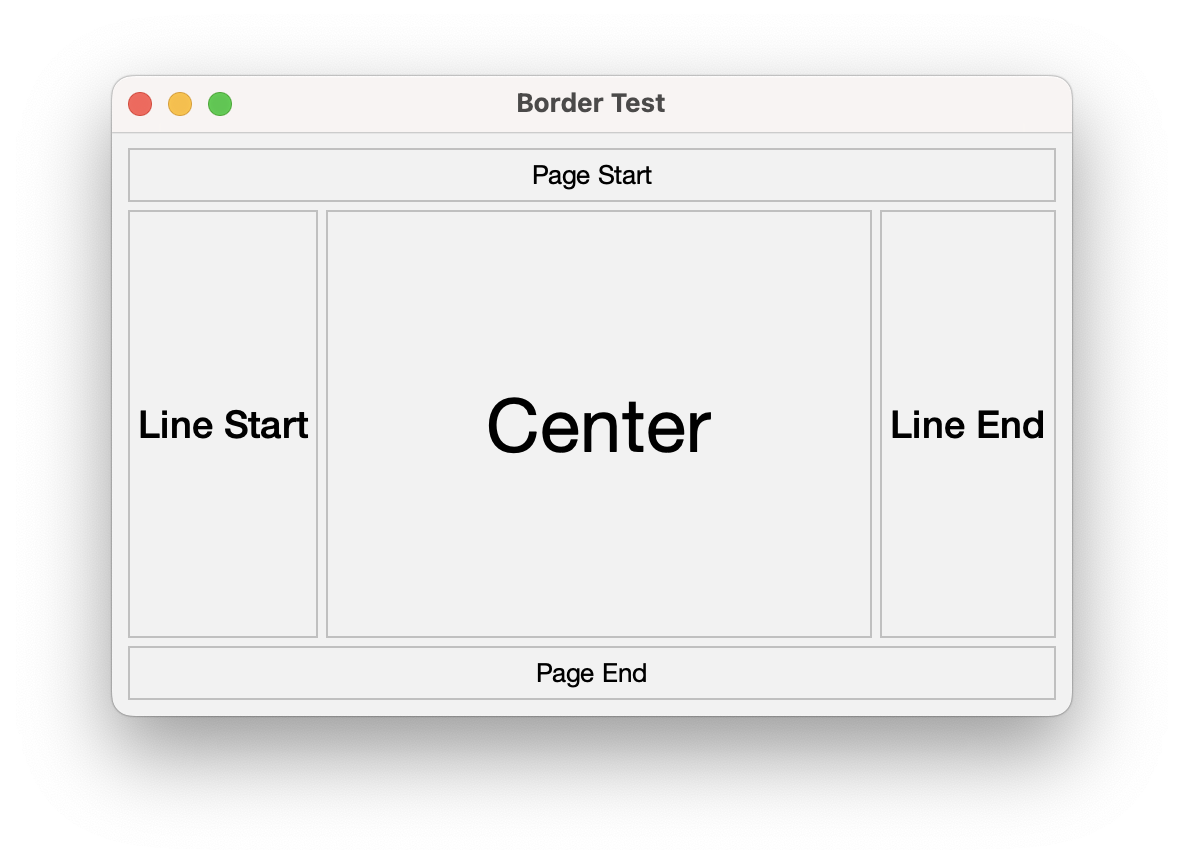
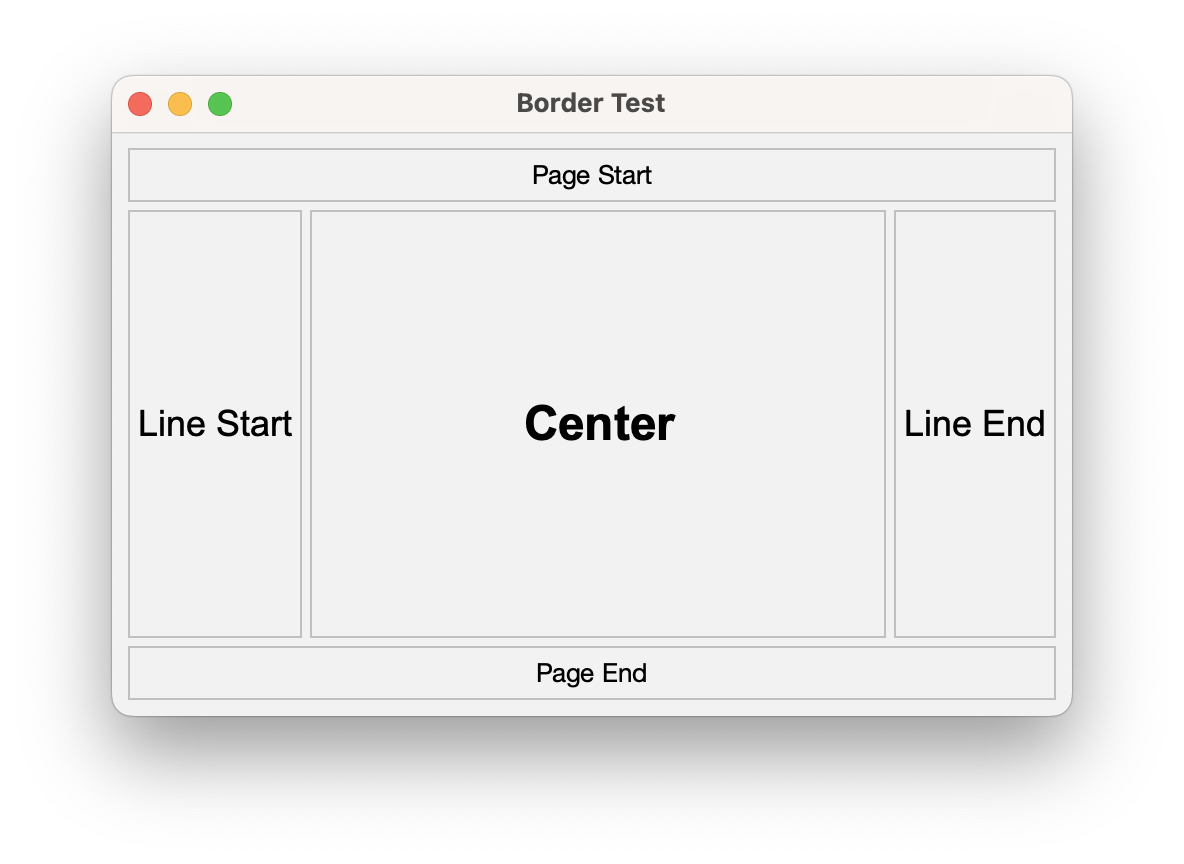
Update README.md.

Changed region(s): [[0.7188, 0.25, 0.875, 0.75], [0.125, 0.25, 0.2812, 0.75], [0.4062, 0.4375, 0.5938, 0.5312]]

diff --git a/sierra-test/src/main/java/org/httprpc/sierra/test/BorderTest.java b/sierra-test/src/main/java/org/httprpc/sierra/test/BorderTest.java
@@ -19,6 +19,7 @@ import org.httprpc.sierra.UILoader;
 
 import javax.swing.JFrame;
 import javax.swing.SwingUtilities;
+import java.awt.Font;
 import java.util.ResourceBundle;
 
 public class BorderTest extends JFrame implements Runnable {
@@ -39,6 +40,9 @@ public class BorderTest extends JFrame implements Runnable {
     }
 
     public static void main(String[] args) {
+        UILoader.define("h1", new Font("Arial", Font.BOLD, 24));
+        UILoader.define("h2", new Font("Arial", Font.PLAIN, 18));
+
         FlatLightLaf.setup();
 
         SwingUtilities.invokeLater(new BorderTest());

diff --git a/README.md b/README.md
@@ -136,9 +136,9 @@ The "weight" attribute specifies the amount of excess space in a container that 
 
 ```xml
 <row-panel spacing="4" weight="1">
-    <label text="lineStart" horizontalAlignment="center" border="#c0c0c0" padding="4" FlatLaf.styleClass="h2"/>
-    <label text="center" horizontalAlignment="center" border="#c0c0c0" padding="4" FlatLaf.styleClass="h00" weight="1"/>
-    <label text="lineEnd" horizontalAlignment="center" border="#c0c0c0" padding="4" FlatLaf.styleClass="h2"/>
+    <label text="lineStart" font="h2" horizontalAlignment="center" border="silver" padding="4"/>
+    <label text="center" font="h1" horizontalAlignment="center" border="silver" padding="4" weight="1"/>
+    <label text="lineEnd" font="h2" horizontalAlignment="center" border="silver" padding="4"/>
 </row-panel>
 ```
 
